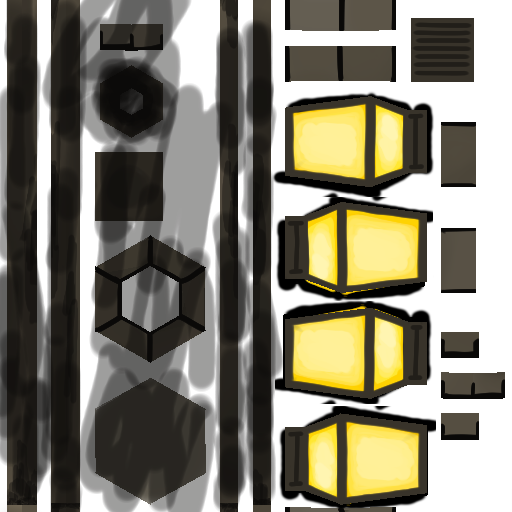
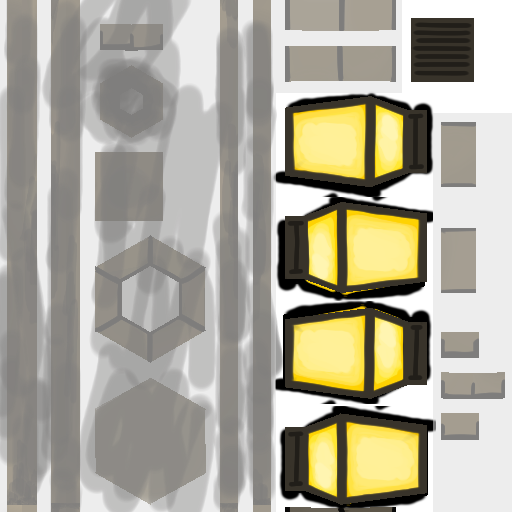
Proper relativize

diff --git a/src/naftoreiclag/villagefive/PluginResourceManager.java b/src/naftoreiclag/villagefive/PluginResourceManager.java
@@ -6,20 +6,17 @@
 
 package naftoreiclag.villagefive;
 
+import com.jme3.asset.TextureKey;
 import com.jme3.asset.plugins.FileLocator;
 import com.jme3.material.Material;
 import com.jme3.math.ColorRGBA;
-import com.jme3.scene.Geometry;
-import com.jme3.scene.Node;
 import com.jme3.scene.Spatial;
 import com.jme3.texture.Texture;
 import java.io.File;
-import java.io.FileNotFoundException;
 import java.io.FileReader;
 import java.io.IOException;
 import java.util.ArrayList;
 import java.util.HashMap;
-import java.util.Iterator;
 import java.util.List;
 import java.util.Map;
 import org.apache.commons.io.FilenameUtils;
@@ -27,7 +24,7 @@ import org.json.simple.JSONObject;
 import org.json.simple.parser.JSONParser;
 import org.json.simple.parser.ParseException;
 
-public class Models
+public class PluginResourceManager
 {
     static
     {
@@ -35,6 +32,22 @@ public class Models
     }
     
     public static Map<String, ArrayList<File>> map = new HashMap<String, ArrayList<File>>();
+    
+    public static String relativize(File absName)
+    {
+        String work = System.getProperty("user.dir") + "\\" + PluginLoader.pluginDir + "\\";
+        String foo = absName.getAbsolutePath();
+        
+        System.out.println("Working Directory = " + foo);
+        System.out.println("Working Directory = " + work);
+        
+        if(foo.startsWith(work))
+        {
+            return foo.substring(work.length());
+        }
+        
+        return foo;
+    }
     
     public static void debug()
     {
@@ -124,7 +137,7 @@ public class Models
         else if(ext.equalsIgnoreCase("j3o"))
         {
             System.out.println("loading j3o model");
-            return SAM.a.loadModel(realLoc.getAbsolutePath().substring(65));
+            return SAM.a.loadModel(relativize(realLoc));
         }
         
         return null;
@@ -147,11 +160,12 @@ public class Models
             JSONObject data = (JSONObject) parser.parse(new FileReader(realLoc));
             
             Material mat = new Material(SAM.a, "Common/MatDefs/Light/Lighting.j3md");
-            
-            mat.setTexture("DiffuseMap", loadTexture((String) data.get("diffuse")));
             mat.setColor("Ambient", ColorRGBA.White);
             mat.setColor("Diffuse", ColorRGBA.White);
             mat.setBoolean("UseMaterialColors", true);
+            
+            mat.setTexture("DiffuseMap", loadTexture((String) data.get("diffuse")));
+            mat.setTexture("GlowMap", loadTexture((String) data.get("glow")));
             
             return mat;
         }
@@ -168,8 +182,9 @@ public class Models
     
     public static Texture loadTexture(File realLoc) throws IOException, ParseException
     {
-        System.out.println(realLoc.getAbsolutePath().substring(65));
+        TextureKey key = new TextureKey(relativize(realLoc));
+        key.setFlipY(false);
         
-        return SAM.a.loadTexture(realLoc.getAbsolutePath().substring(65));
+        return SAM.a.loadTexture(key);
     }
 }

diff --git a/src/naftoreiclag/villagefive/PluginLoader.java b/src/naftoreiclag/villagefive/PluginLoader.java
@@ -28,17 +28,16 @@ class PluginLoader
 
     static void loadPlugs() throws FileNotFoundException, IOException, ParseException
     {
-        List<File> dirs = (List<File>) FileUtils.listFilesAndDirs(new File(pluginDir), FalseFileFilter.FALSE, TrueFileFilter.TRUE);
+        List<File> pluginRoots = (List<File>) FileUtils.listFilesAndDirs(new File(pluginDir), FalseFileFilter.FALSE, TrueFileFilter.TRUE);
         
-        // remove the base plugin directory
-        dirs.remove(0);
+        // Remove the plugins folder, not sure why its even included.
+        pluginRoots.remove(0);
         
         JSONParser parser = new JSONParser();
         
-        for(File dir : dirs)
+        for(File pluginRoot : pluginRoots)
         {
-                System.out.println(dir.getAbsolutePath());
-            File metaF = FileUtils.getFile(dir, "plugin.json");
+            File metaF = FileUtils.getFile(pluginRoot, "plugin.json");
             FileReader metaR = new FileReader(metaF);
             JSONObject meta = (JSONObject) parser.parse(metaR);
             
@@ -48,16 +47,16 @@ class PluginLoader
             
             Plugin plugin = new Plugin(pName, pSpace, pDesc);
             
-            if(!Models.map.containsKey(pSpace))
+            if(!PluginResourceManager.map.containsKey(pSpace))
             {
-                Models.map.put(pSpace, new ArrayList<File>());
+                PluginResourceManager.map.put(pSpace, new ArrayList<File>());
             }
-            Models.map.get(pSpace).add(dir);
+            PluginResourceManager.map.get(pSpace).add(pluginRoot);
             
             System.out.println(meta);
             
             
-            List<File> ents = (List<File>) FileUtils.listFiles(dir, new String[]{"entity.json", "ent.json"}, true);
+            List<File> ents = (List<File>) FileUtils.listFiles(pluginRoot, new String[]{"entity.json", "ent.json"}, true);
             
             System.out.println(ents);
             

diff --git a/src/naftoreiclag/villagefive/OverworldAppState.java b/src/naftoreiclag/villagefive/OverworldAppState.java
@@ -20,6 +20,8 @@ import com.jme3.light.AmbientLight;
 import com.jme3.light.DirectionalLight;
 import com.jme3.math.ColorRGBA;
 import com.jme3.math.Vector3f;
+import com.jme3.post.FilterPostProcessor;
+import com.jme3.post.filters.BloomFilter;
 import com.jme3.renderer.Camera;
 import com.jme3.renderer.RenderManager;
 import com.jme3.renderer.ViewPort;
@@ -213,6 +215,11 @@ public class OverworldAppState extends AbstractAppState
         dlsr.setLambda(0.55f);
         dlsr.setEdgeFilteringMode(EdgeFilteringMode.PCF4);
         //viewPort.addProcessor(dlsr);
+        
+        FilterPostProcessor fpp = new FilterPostProcessor(assetManager);
+        BloomFilter bf = new BloomFilter(BloomFilter.GlowMode.Objects);
+        fpp.addFilter(bf);
+        viewPort.addProcessor(fpp);
 
         
         HorizQuad quad = new HorizQuad(-300, -300, 300, 300);

diff --git a/src/naftoreiclag/villagefive/world/entity/ModEntity.java b/src/naftoreiclag/villagefive/world/entity/ModEntity.java
@@ -13,7 +13,7 @@ import com.jme3.scene.Spatial;
 import java.io.IOException;
 import java.util.logging.Level;
 import java.util.logging.Logger;
-import naftoreiclag.villagefive.Models;
+import naftoreiclag.villagefive.PluginResourceManager;
 import naftoreiclag.villagefive.PluginEntity;
 import naftoreiclag.villagefive.util.math.Vec2;
 import naftoreiclag.villagefive.util.scenegraph.ModelManipulator;
@@ -48,7 +48,7 @@ public class ModEntity extends Entity
         try
         {
             System.out.println(this.data.model);
-            Spatial geo = Models.loadModel("std:" + this.data.model);
+            Spatial geo = PluginResourceManager.loadModel("std:" + this.data.model);
             
             System.out.println(geo);
             

diff --git a/src/naftoreiclag/villagefive/Main.java b/src/naftoreiclag/villagefive/Main.java
@@ -55,7 +55,7 @@ public class Main extends SimpleApplication implements ActionListener
         try
         {
         PluginLoader.loadPlugs();
-        Models.debug();
+        PluginResourceManager.debug();
         System.out.println(FilenameUtils.getExtension("/test/test.foo.bar"));
         }
         catch(Exception e)

diff --git a/src/naftoreiclag/villagefive/world/World.java b/src/naftoreiclag/villagefive/world/World.java
@@ -114,7 +114,7 @@ public class World implements JSONAware
         
     }
 
-    public boolean showPhysDebug = true;
+    public boolean showPhysDebug = false;
     public Node last = null;
 
     public void tick(float tpf)
